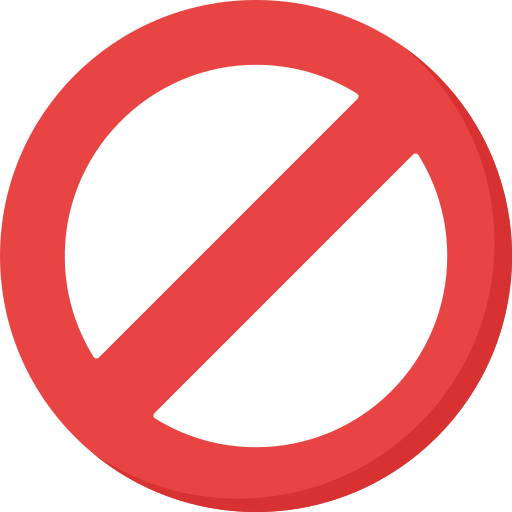
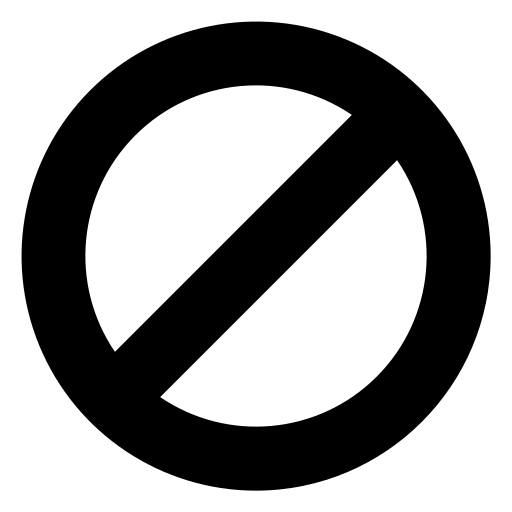
chat settings wip

diff --git a/React/vol/app/src/components/UserBarButtons/UserBarButtons.tsx b/React/vol/app/src/components/UserBarButtons/UserBarButtons.tsx
@@ -1,20 +1,20 @@
-import BlockLogo from "../../ressources/images/forbidden_empty.png";
-import MuteLogo from "../../ressources/images/forbidden_empty.png";
+import BlockLogo from "../../ressources/images/forbidden.png";
+import MuteLogo from "../../ressources/images/mute.png";
 import BanLogo from "../../ressources/images/hammer.png";
-import InviteLogo from "../../ressources/images/forbidden_empty.png";
+import InviteLogo from "../../ressources/images/pvp.png";
+import PromoteLogo from "../../ressources/images/promote.png";
 import "./UserBarButtons.css";
 
 export function InviteUserButton()
 {
 	function onClick()
 	{
-		console.log("user ivnited");
+		console.log("user invited");
 	}
 	return (
-		<button className="user_bar_button" onClick={onClick}><img src={InviteLogo}/></button>
+		<button className="user_bar_button positive_user_button" onClick={onClick}><img alt="" src={InviteLogo}/>invite</button>
 	);
 }
-
 
 export function BanUserButton()
 {
@@ -23,10 +23,9 @@ export function BanUserButton()
 		console.log("user banned");
 	}
 	return (
-		<button className="user_bar_button" onClick={onClick}><img src={BanLogo}/></button>
+		<button className="user_bar_button negative_user_button" onClick={onClick}><img alt="" src={BanLogo}/>ban</button>
 	);
 }
-
 
 export function MuteUserButton()
 {
@@ -35,10 +34,9 @@ export function MuteUserButton()
 		console.log("user muted");
 	}
 	return (
-		<button className="user_bar_button" onClick={onClick}><img src={MuteLogo}/></button>
+		<button className="user_bar_button negative_user_button" onClick={onClick}><img alt="" src={MuteLogo}/>mute</button>
 	);
 }
-
 
 export function BlockUserButton()
 {
@@ -47,6 +45,17 @@ export function BlockUserButton()
 		console.log("user blocked");
 	}
 	return (
-		<button className="user_bar_button" onClick={onClick}><img src={BlockLogo}/></button>
+		<button className="user_bar_button negative_user_button" onClick={onClick}><img alt="" src={BlockLogo}/>block</button>
+	);
+}
+
+export function PromoteUserButton()
+{
+	function onClick()
+	{
+		console.log("user promoted");
+	}
+	return (
+		<button className="user_bar_button positive_user_button" onClick={onClick}><img alt="" src={PromoteLogo}/>promote</button>
 	);
 }

diff --git a/React/vol/app/src/components/ChannelUserList/ChannelUserList.tsx b/React/vol/app/src/components/ChannelUserList/ChannelUserList.tsx
@@ -1,5 +1,6 @@
 import ChatUser from "../ChatUser/ChatUser";
 import { useChatContext, ELevelInRoom } from "../Sidebar/ChatContext/ProvideChat";
+import "./ChannelUserList.css"
 
 function ChannelUserList ()
 {
@@ -10,6 +11,36 @@ function ChannelUserList ()
 		user_lvl = chatCtx.currentRoom.user_level;
 	return (
 		<div id="channel_users_list">
+			<ChatUser currentUserLvl={user_lvl}/>
+			<ChatUser currentUserLvl={user_lvl}/>
+			<ChatUser currentUserLvl={user_lvl}/>
+			<ChatUser currentUserLvl={user_lvl}/>
+			<ChatUser currentUserLvl={user_lvl}/>
+			<ChatUser currentUserLvl={user_lvl}/>
+			<ChatUser currentUserLvl={user_lvl}/>
+			<ChatUser currentUserLvl={user_lvl}/>
+			<ChatUser currentUserLvl={user_lvl}/>
+			<ChatUser currentUserLvl={user_lvl}/>
+			<ChatUser currentUserLvl={user_lvl}/>
+			<ChatUser currentUserLvl={user_lvl}/>
+			<ChatUser currentUserLvl={user_lvl}/>
+			<ChatUser currentUserLvl={user_lvl}/>
+			<ChatUser currentUserLvl={user_lvl}/>
+			<ChatUser currentUserLvl={user_lvl}/>
+			<ChatUser currentUserLvl={user_lvl}/>
+			<ChatUser currentUserLvl={user_lvl}/>
+			<ChatUser currentUserLvl={user_lvl}/>
+			<ChatUser currentUserLvl={user_lvl}/>
+			<ChatUser currentUserLvl={user_lvl}/>
+			<ChatUser currentUserLvl={user_lvl}/>
+			<ChatUser currentUserLvl={user_lvl}/>
+			<ChatUser currentUserLvl={user_lvl}/>
+			<ChatUser currentUserLvl={user_lvl}/>
+			<ChatUser currentUserLvl={user_lvl}/>
+			<ChatUser currentUserLvl={user_lvl}/>
+			<ChatUser currentUserLvl={user_lvl}/>
+			<ChatUser currentUserLvl={user_lvl}/>
+			<ChatUser currentUserLvl={user_lvl}/>
 			<ChatUser currentUserLvl={user_lvl}/>
 			<ChatUser currentUserLvl={user_lvl}/>
 			<ChatUser currentUserLvl={user_lvl}/>

diff --git a/React/vol/app/src/components/Sidebar/ChatContext/ProvideChat.tsx b/React/vol/app/src/components/Sidebar/ChatContext/ProvideChat.tsx
@@ -10,18 +10,28 @@ export enum ELevelInRoom
 	owner = "owner",
 }
 
-export interface IRoom
+export enum ERoomVisibility
 {
-	user_level: ELevelInRoom;
-	room_name: string;
-	room_message: RcvMessageDto[];
+	public = "public",
+	private = "private",
+	protected = "protected",
 }
+
 
 export enum ECurrentTab
 {
 	friends = "friends",
 	channels = "channels",
 	chat = "chat",
+}
+
+export interface IRoom
+{
+	visibility: ERoomVisibility;
+	password?: string;
+	user_level: ELevelInRoom;
+	room_name: string;
+	room_message: RcvMessageDto[];
 }
 
 interface IChatContext
@@ -47,12 +57,14 @@ function useChatProvider() : IChatContext
 	const [currentTab, setCurrentTab] = useState<ECurrentTab>(ECurrentTab.channels);
 
 	
-    function addRoom(room_name: string)
+    function addRoom(room_name: string, password?: string)
     {
 		const newRoom : IRoom = {
 			user_level: ELevelInRoom.owner,
 			room_name: room_name,
-            room_message: []
+            room_message: [],
+			visibility: ERoomVisibility.public,
+			password: password
         };
 		
         setRooms([...rooms, newRoom]);

diff --git a/React/vol/app/src/components/OwnerChannelSettings/OwnerChannelSettings.tsx b/React/vol/app/src/components/OwnerChannelSettings/OwnerChannelSettings.tsx
@@ -1,14 +1,42 @@
-import { RcvMessageDto } from "../../interface/chat/chatDto";
-import { useChatContext } from "../Sidebar/ChatContext/ProvideChat";
+import { useChatContext, ERoomVisibility } from "../Sidebar/ChatContext/ProvideChat";
 import ChannelUserList from "../ChannelUserList/ChannelUserList";
+import "./OwnerChannelSettings.css"
 
 function OwnerChannelSettings ()
 {
-	// const chatCtx = useChatContext();
+	const chatCtx = useChatContext();
+
+	const style = { "--additional_settings_space": "30vh" } as React.CSSProperties;
+
+	function PasswordSettings()
+	{
+		if (chatCtx.currentRoom?.visibility === ERoomVisibility.protected)
+		{
+			return (
+				<div className="channel_password_settings">
+					<div>
+						Changer de mot de passe
+					</div>
+					<div>
+						Retirer le mot de passe
+					</div>
+				</div>
+			);
+		}
+		else
+		{
+			return (
+				<div className="channel_password_settings">
+					Ajouter un mot de passe
+				</div>
+			);
+		}
+	}
 
 	return (
-		<div>
+		<div style={style}>
 			<ChannelUserList />
+			<PasswordSettings />
 		</div>
 	);
 }

diff --git a/React/vol/app/src/components/Chat/Chat.tsx b/React/vol/app/src/components/Chat/Chat.tsx
@@ -2,8 +2,7 @@ import { useState } from "react";
 import { useChatContext, ELevelInRoom } from "../Sidebar/ChatContext/ProvideChat";
 import ChatTab from "../ChatTab/ChatTab";
 import OwnerChannelSettings from "../OwnerChannelSettings/OwnerChannelSettings";
-import AdminChannelSettings from "../AdminChannelSettings/AdminChannelSettings";
-import CasualChannelSettings from "../CasualChannelSettings/CasualChannelSettings";
+import ChannelSettings from "../ChannelSettings/ChannelSettings";
 import ThisListIsEmpty from "../ThisListIsEmpty/ThisListIsEmpty";
 import "./Chat.css";
 
@@ -24,10 +23,8 @@ function Chat()
 			{
 				if (chatCtx.currentRoom.user_level === ELevelInRoom.owner)
 					return (<OwnerChannelSettings />);
-				else if (chatCtx.currentRoom.user_level === ELevelInRoom.admin)
-					return (<AdminChannelSettings />);
 				else
-					return (<CasualChannelSettings />)
+					return (<ChannelSettings />);
 			}
 		}
 		else

diff --git a/React/vol/app/src/components/ChatUser/ChatUser.tsx b/React/vol/app/src/components/ChatUser/ChatUser.tsx
@@ -1,5 +1,5 @@
 import {ELevelInRoom} from "../Sidebar/ChatContext/ProvideChat"
-import {InviteUserButton, BanUserButton, MuteUserButton, BlockUserButton} from "../UserBarButtons/UserBarButtons"
+import {InviteUserButton, BanUserButton, MuteUserButton, BlockUserButton, PromoteUserButton} from "../UserBarButtons/UserBarButtons"
 import "./ChatUser.css"
 
 interface	props
@@ -20,11 +20,23 @@ function ChatUser (data: props)
 				</div>
 			);
 		}
+		else if (data.currentUserLvl === ELevelInRoom.admin)
+		{
+			return (
+				<div className="chat_user_button_div">
+					<InviteUserButton />
+					<BlockUserButton />
+					<MuteUserButton />
+					<BanUserButton />
+				</div>
+			);
+		}
 		else
 		{
 			return (
 				<div className="chat_user_button_div">
 					<InviteUserButton />
+					<PromoteUserButton />
 					<BlockUserButton />
 					<MuteUserButton />
 					<BanUserButton />

diff --git a/React/vol/app/src/components/UserBarButtons/UserBarButtons.css b/React/vol/app/src/components/UserBarButtons/UserBarButtons.css
@@ -7,9 +7,26 @@
 
 .user_bar_button
 {
-	margin: 0.25vmin;
-	width: 20%;
-	background-color: rgb(235, 41, 41);
+	height: max-content;
+	margin: 0.3vmin;
+	width: 17%;
 	border: none;
-	/* border-radius: 50%; */
+	padding: 4px;
+	border-radius: 10px;
+	font-size: 0;
+}
+
+.user_bar_button:hover
+{
+	font-size: 0.3em;
+}
+
+.positive_user_button
+{
+	background-color: rgb(90, 204, 45);
+}
+
+.negative_user_button
+{
+	background-color: rgb(235, 41, 41);
 }

diff --git a/React/vol/app/src/components/ChannelSettings/ChannelSettings.tsx b/React/vol/app/src/components/ChannelSettings/ChannelSettings.tsx
@@ -1,0 +1,15 @@
+import ChannelUserList from "../ChannelUserList/ChannelUserList";
+import "./ChannelSettings.css";
+
+function ChannelSettings ()
+{
+	var style = { "--additional_settings_space": "0vh" } as React.CSSProperties;
+
+	return (
+		<div style={style}>
+			<ChannelUserList />
+		</div>
+	);
+}
+
+export default ChannelSettings;

diff --git a/React/vol/app/src/components/ChatUser/ChatUser.css b/React/vol/app/src/components/ChatUser/ChatUser.css
@@ -4,13 +4,14 @@
 	display: flex;
 	justify-content: space-between;
 	align-items: center;
-	margin: 0 1vmin;
+	margin: 0 0.8vmin 0 1.2vmin;
 }
 
 .chat_user_button_div
 {
 	display: flex;
-	justify-content: space-evenly;
-	width: 30%;
+	justify-content: right;
+	align-items: center;
+	width: 35%;
 	height: 100%;
 }

diff --git a/React/vol/app/src/components/ChannelUserList/ChannelUserList.css b/React/vol/app/src/components/ChannelUserList/ChannelUserList.css
@@ -1,0 +1,9 @@
+#channel_users_list
+{
+	/* padding: 0 2vh; */
+	background-color: #525863a9;
+	scroll-behavior: auto;
+	overflow-x: hidden;
+	overflow-y: auto;
+	height: calc(100vh - (var(--tab_button_height) * 2) - var(--additional_settings_space));
+}
